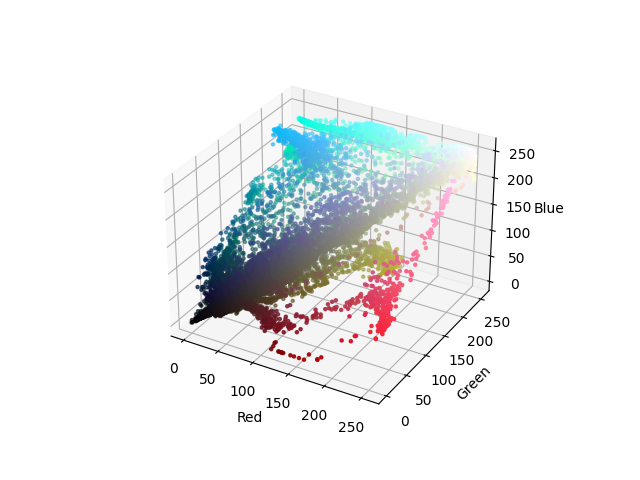
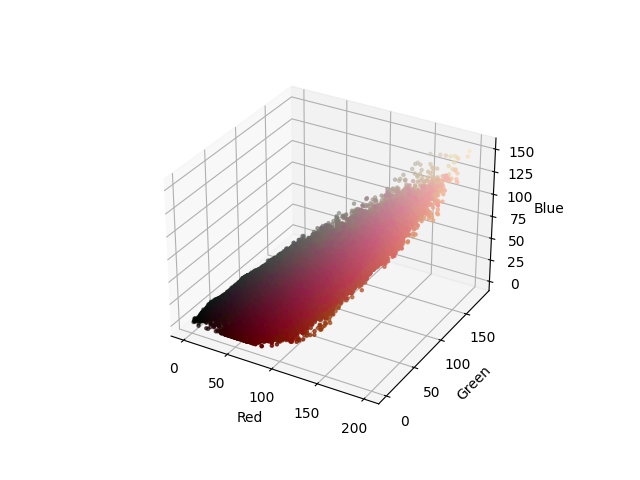
leaf and flower ID function are slightly functional now and put picture in correct folders

diff --git a/app/PlantModel.py b/app/PlantModel.py
@@ -11,10 +11,10 @@ from matplotlib import colors
 class PlantModel:
     flower_to_leaf_ratio = 0.0
     green_to_green_max_ratio = 0.0
-    leaf_color_minimum = [0.0, 0.0, 0.0]
-    leaf_color_maximum = [0.0, 0.0, 0.0]
-    flower_color_minimum = [0.0, 0.0, 0.0]
-    flower_color_maximum = [0.0, 0.0, 0.0]
+    leaf_color_minimum = [0, 0, 0]
+    leaf_color_maximum = [0, 0, 0]
+    flower_color_minimum = [0, 0, 0]
+    flower_color_maximum = [0, 0, 0]
     does_plant_have_flowers = False 
     is_plant_healthy = False
 
@@ -82,47 +82,73 @@ class PlantModel:
         fig2.savefig("app\data\\view_5_photos\ColorSpace_HSV.png")
 
         #plt.show()
+        plt.clf()
+        plt.close()
 
     def Set_Ranges_Manual(self): #This function requests the color ranges from the user
-        leaf_max_str = input("Please enter the maximum RGB green value (e.g. 1,45,233) : ")
-        leaf_min_str = input("Please enter the minimum RGB green value (e.g. 1,45,233) : ")
-        flower_max_str = input("Please enter the maximum RGB flower value (e.g. 1,45,233) : ")
-        flower_min_str = input("Please enter the minimum RGB flower value (e.g. 1,45,233) : ")
+        #leaf_max_str = input("Please enter the maximum RGB green value (e.g. 1,45,233) : ")
+        #leaf_min_str = input("Please enter the minimum RGB green value (e.g. 1,45,233) : ")
+        #flower_max_str = input("Please enter the maximum RGB flower value (e.g. 1,45,233) : ")
+        #flower_min_str = input("Please enter the minimum RGB flower value (e.g. 1,45,233) : ")
 
-        self.leaf_color_maximum = list(map(float,leaf_max_str.split(',')))
-        self.leaf_color_minimum = list(map(float,leaf_min_str.split(',')))
-        self.flower_color_maximum = list(map(float,flower_max_str.split(',')))
-        self.flower_color_minimum = list(map(float,flower_min_str.split(',')))
+        #self.leaf_color_maximum = np.array(map(int,leaf_max_str.split(',')))
+        #self.leaf_color_minimum = np.array(map(int,leaf_min_str.split(',')))
+        #self.flower_color_maximum = list(map(float,flower_max_str.split(',')))
+        #self.flower_color_minimum = list(map(float,flower_min_str.split(',')))
+        self.leaf_color_maximum = (0,40,0)
+        self.leaf_color_minimum = (50,200,255)
+        self.flower_color_maximum = (70,40,0)
+        self.flower_color_minimum = (255,255,255)
 
     def ID_Leaves(self): #This function reads the image in view_1_photos and Identify the plants leaves 
         img = cv.imread("app\data\\view_1_photos\Picture.png")
-        new_img = np.zeros(img.shape, img.dtype)
-        mask = cv.inRange(img, self.leaf_color_maximum, self.leaf_color_minimum)
+        rgb_img = cv.cvtColor(img, cv.COLOR_BGR2RGB)
+        hsv_img = cv.cvtColor(rgb_img, cv.COLOR_RGB2HSV) 
+        #new_img = np.zeros(img.shape, img.dtype)
+        mask = cv.inRange(hsv_img, self.leaf_color_maximum, self.leaf_color_minimum)
+        new_img = cv.bitwise_and(rgb_img, rgb_img, mask=mask)
+        plt.subplot(1, 2, 1)
+        plt.imshow(mask, cmap="gray")
+        plt.subplot(1, 2, 2)
+        plt.imshow(new_img)
 
-        cv.imshow('Original Image', img)
+        plt.show()
+        plt.clf()
+        plt.close()
+
+        cv.imwrite("app\data\\view_2_photos\Leaves.png", cv.cvtColor(new_img, cv.COLOR_BGR2RGB))
+
+        """cv.imshow('Original Image', img)
         cv.imshow('New Image', new_img)
         cv.imwrite("app\data\\view_2_photos\Leaves.png", img)
-        cv.waitKey(0)
+        cv.waitKey(0)"""
 
     def ID_Flowers(self): #This function read the image in view_1_photos and Identify the plants flowers
         img = cv.imread("app\data\\view_1_photos\Picture.png")
-        new_img = np.zeros(img.shape, img.dtype)
+        rgb_img = cv.cvtColor(img, cv.COLOR_BGR2RGB)
+        hsv_img = cv.cvtColor(rgb_img, cv.COLOR_RGB2HSV) 
+        #new_img = np.zeros(img.shape, img.dtype)
+        mask = cv.inRange(hsv_img, self.flower_color_maximum, self.flower_color_minimum)
+        new_img = cv.bitwise_and(rgb_img, rgb_img, mask=mask)
+        plt.subplot(1, 2, 1)
+        plt.imshow(mask, cmap="gray")
+        plt.subplot(1, 2, 2)
+        plt.imshow(new_img)
 
-        cv.imshow('Original Image', img)
-        cv.imshow('New Image', new_img)
-        cv.imwrite("app\data\\view_3_photos\Flowers.png", img)
-        cv.waitKey(0)
-    
+        plt.show()
+        plt.clf()
+        plt.close()
+
+        cv.imwrite("app\data\\view_3_photos\Flowers.png", cv.cvtColor(new_img, cv.COLOR_BGR2RGB))
 
 
 #Main script
 myplant = PlantModel(1,2,[0,0,0],[0,0,0],[0,0,0],[0,0,0],True,False)
-print(myplant.leaf_color_maximum, myplant.leaf_color_minimum, 
-      myplant.flower_color_maximum, myplant.flower_color_minimum)
 myplant.TakePicture()
 myplant.ColorSpace()
 myplant.Set_Ranges_Manual()
-print(myplant.leaf_color_maximum, myplant.leaf_color_minimum, 
-      myplant.flower_color_maximum, myplant.flower_color_minimum)
+myplant.ID_Leaves()
+myplant.ID_Flowers()
+
 
 #print(myplant.does_plant_have_flowers)
